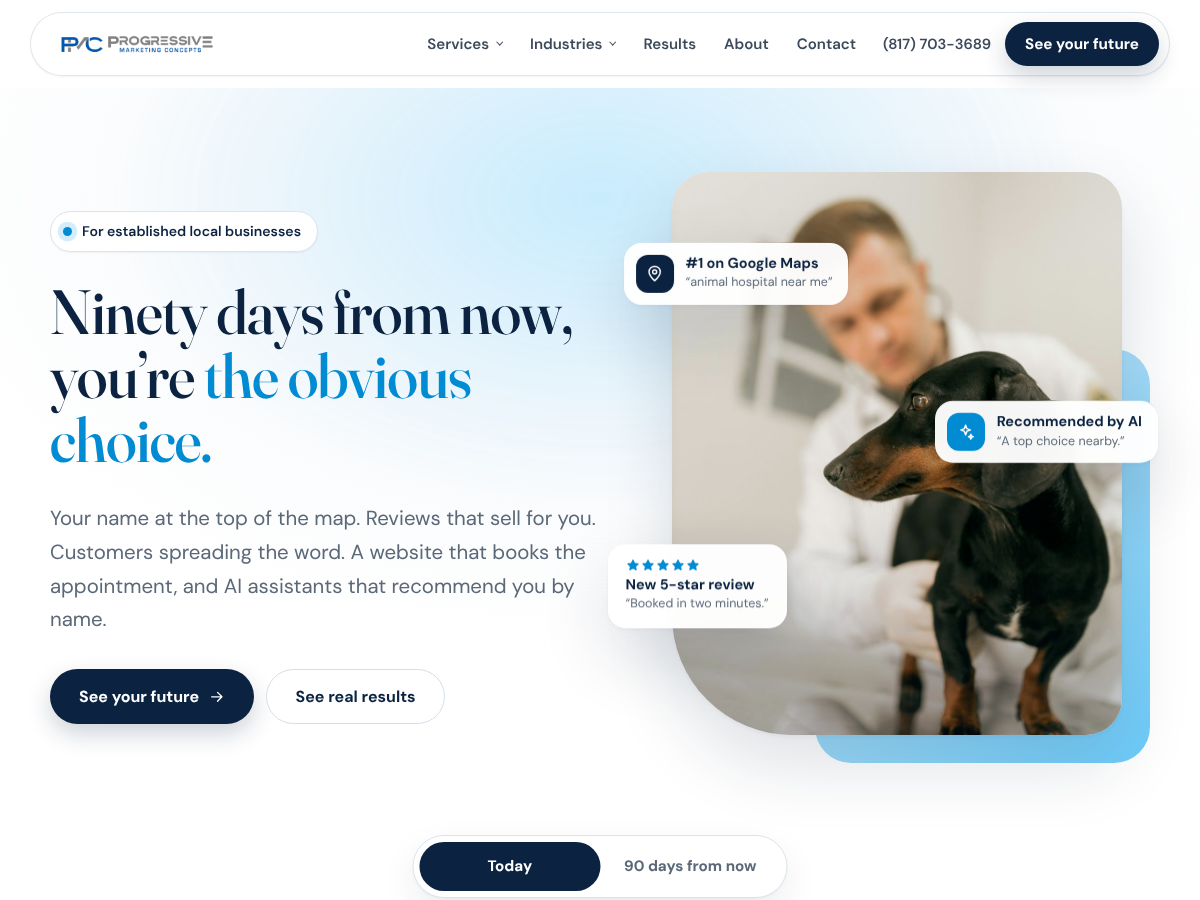
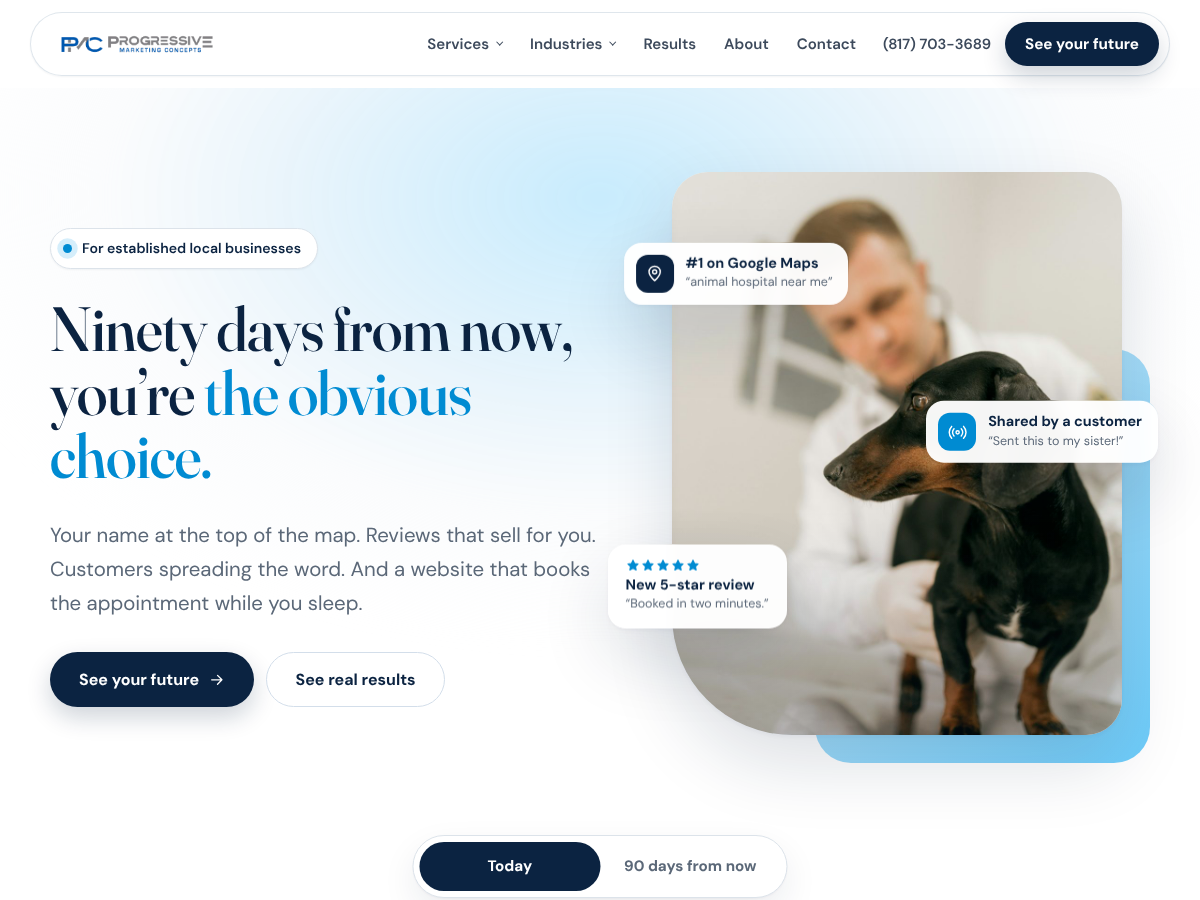
Remove AI assistant and AI search mentions from site copy
PMC doesn't offer AI visibility as a service yet. The home AI section
and demo are removed; the hero card, switch tile, and day timeline now
feature Ripple, scheduling, and Driveby instead. Website Builds copy
focuses on search engines and conversion. Behind-the-scenes structured
data, llms.txt, and crawler access are unchanged.

Claude-Session: https://claude.ai/code/session_018pQ9Jxz9pM4me8uzc4osee

diff --git a/wp-content/themes/progressive-marketing/style.css b/wp-content/themes/progressive-marketing/style.css
@@ -229,8 +229,8 @@ p { margin: 0 0 1em; }
 .chip-review { flex-direction: column; align-items: flex-start; gap: 4px; padding: 14px 18px; }
 .chip-rank { top: 12%; left: -48px; }
 .chip-review { bottom: 22%; left: -64px; animation-delay: -2.3s; }
-.chip-ai { top: 40%; right: -8px; animation-delay: -4.6s; }
-.chip-ai .chip-icon { background: var(--blue); }
+.chip-share { top: 40%; right: -8px; animation-delay: -4.6s; }
+.chip-share .chip-icon { background: var(--blue); }
 @keyframes chipFloat { 50% { transform: translateY(-8px); } }
 .hero-photo-split + .container .ft { margin-top: clamp(48px, 6vw, 80px); }
 @media (max-width: 960px) {
@@ -238,11 +238,11 @@ p { margin: 0 0 1em; }
 	.hero-photo { max-width: 460px; margin: 8px auto 0; }
 	.chip-rank { left: -8px; top: -18px; }
 	.chip-review { left: -12px; }
-	.chip-ai { right: 0; }
+	.chip-share { right: 0; }
 }
 @media (max-width: 480px) {
 	.hero-chip { transform: scale(.9); }
-	.chip-ai { display: none; }
+	.chip-share { display: none; }
 }
 
 /* Today ↔ Future switch */

diff --git a/wp-content/themes/progressive-marketing/inc/content.php b/wp-content/themes/progressive-marketing/inc/content.php
@@ -76,23 +76,23 @@ function pmc_services() {
 			'name'     => 'Website Builds',
 			'tagline'  => 'A website that closes.',
 			'icon'     => 'browser',
-			'future'   => 'Visitors land on a site that feels unmistakably yours, answers their questions, earns their trust, and turns them into booked appointments, and AI assistants can read it and recommend you.',
-			'summary'  => 'Every website we build is custom: designed from scratch around your brand, your market, and the customers you want more of. No templates, no two alike. Each one is built to convert the attention Driveby and Ripple create, and structured so search engines and AI assistants understand exactly what you do.',
+			'future'   => 'Visitors land on a site that feels unmistakably yours, answers their questions, earns their trust, and turns them into booked appointments.',
+			'summary'  => 'Every website we build is custom: designed from scratch around your brand, your market, and the customers you want more of. No templates, no two alike. Each one is built to convert the attention Driveby and Ripple create, and structured so search engines understand exactly what you do and where you do it.',
 			'parts'    => array(
 				array( 'Custom from the first sketch', 'Designed around your brand and your customers, never a recycled theme.' ),
 				array( 'Built to convert', 'Clear offers, real proof, and one obvious next step on every page.' ),
-				array( 'Built for AI search', 'Structured data, clean semantic pages, and answers written the way people ask questions, so ChatGPT, Gemini, and Google’s AI Overviews can cite you.' ),
+				array( 'Built to be found', 'Clean, fast pages with structured data, so search engines understand exactly what you do and where you do it.' ),
 				array( 'Built to last', 'Fast, secure, mobile-first, and easy for your team to update.' ),
 			),
 			'steps'    => array(
 				array( 'Discover', 'We learn your business, your market, and who you want more of.' ),
 				array( 'Design', 'A custom design shaped around your brand, reviewed with you.' ),
-				array( 'Build', 'Fast, accessible, and structured for search engines and AI.' ),
+				array( 'Build', 'Fast, accessible, mobile-first, and structured for search engines.' ),
 				array( 'Launch', 'Go live, connect it to your visibility and reputation work, and keep improving.' ),
 			),
 			'outcomes' => array(
 				'Your website becomes your best salesperson, working every hour of the day.',
-				'AI assistants describe your business accurately and send customers your way.',
+				'Customers get their questions answered and book without picking up the phone.',
 				'Every dollar you spend on visibility lands somewhere that converts.',
 			),
 			'draft'    => false,
@@ -105,7 +105,7 @@ function pmc_services() {
  */
 function pmc_futures() {
 	return array(
-		array( 'Found first', 'When someone nearby needs what you do, your name is at the top of the map, in the AI answer, and in the conversation.' ),
+		array( 'Found first', 'When someone nearby needs what you do, your name is at the top of the map and in the conversation.' ),
 		array( 'Trusted on sight', 'Your reviews, your profile, and your website all say the same thing: this is the safe choice.' ),
 		array( 'Chosen, again and again', 'The phone rings with the right customers. Appointments book themselves. Growth stops depending on luck.' ),
 	);
@@ -120,7 +120,7 @@ function pmc_future_day() {
 		array( '7:42 AM', 'call', 'New call from Google Maps', '“Saw you were top-rated. Do you have anything today?”' ),
 		array( '9:15 AM', 'star', 'New 5-star review', '“Found them on the map, booked in two minutes.”' ),
 		array( '11:03 AM', 'calendar', 'Appointment booked online', 'From your website, after reading your FAQ.' ),
-		array( '1:30 PM', 'ai', 'Recommended by an AI assistant', '“Top choice nearby, known for fast service and great reviews.”' ),
+		array( '1:30 PM', 'pin', 'Top 3 across town', 'Your weekly map report: top three from one side of town to the other.' ),
 		array( '3:48 PM', 'shield', 'Fake review reported', 'A competitor’s 1-star review flagged for removal within 30 minutes.' ),
 		array( '5:20 PM', 'ripple', 'Your campaign is spreading', 'Customers shared your offer, and their friends are sharing it too.' ),
 	);
@@ -307,12 +307,12 @@ function pmc_growth360_editions() {
 }
 
 /**
- * FAQs, written as the questions people (and AI assistants) actually ask.
+ * FAQs, written as the questions people actually ask.
  * Output as FAQPage structured data wherever they appear.
  */
 function pmc_faqs() {
 	return array(
-		array( 'What does Progressive Marketing Concepts do?', 'We help established local businesses become the obvious choice in their market. Our three services are PMC Driveby™ & Review Guard™ (top-three Google Maps visibility, with fast removal reporting for fake or abusive reviews included), Ripple (sharing campaigns that turn your existing media into earned media), and custom websites built for AI search.' ),
+		array( 'What does Progressive Marketing Concepts do?', 'We help established local businesses become the obvious choice in their market. Our three services are PMC Driveby™ & Review Guard™ (top-three Google Maps visibility, with fast removal reporting for fake or abusive reviews included), Ripple (sharing campaigns that turn your existing media into earned media), and custom websites built to turn visitors into customers.' ),
 		array( 'What is PMC Driveby?', 'PMC Driveby is a location-based ranking system for Google Business Profiles. It moves your business into the top three on Google Maps for the keywords your customers search, across your whole service area, and keeps monitoring it there.' ),
 		array( 'What is PMC Review Guard?', 'Review Guard is included with every PMC Driveby plan. It monitors your Google reviews around the clock. New 1- and 2-star reviews that appear fake, spammy, abusive, off-topic, or from competitors or non-customers are typically reported within 30 minutes, then escalated and tracked. No login to your Google account is required.' ),
 		array( 'Can every negative review be removed?', 'No. Google makes the final decision, and genuine reviews that follow its policies stay up. Review Guard makes sure the ones that break the rules are reported fast and followed through.' ),
@@ -320,7 +320,7 @@ function pmc_faqs() {
 		array( 'How fast will I see results?', 'Our Driveby optimization runs 30 to 45 days, and many clients see movement sooner. One wellness center moved from position 13 to 5 for a key service in seven days.' ),
 		array( 'How do I know it’s working?', 'Every keyword gets a before-and-after geo-grid report showing your average ranking position (ARP) and share of local voice (SOLV, the share of the map where you rank in the top three), plus monthly executive reporting.' ),
 		array( 'Is there a way to try it first?', 'Yes. You can start a free 7-day PMC Driveby trial, or a complimentary Growth360™ Executive Evaluation for veterinary clinics and dealerships. There’s no sales presentation.' ),
-		array( 'Do you build websites that work with AI search?', 'Yes. Our websites use structured data, clean semantic pages, and plain-language answers so search engines and AI assistants like ChatGPT, Gemini, and Google AI Overviews can understand and recommend your business.' ),
+		array( 'What’s included in a website build?', 'Every site is designed from scratch around your brand and the customers you want more of. It loads fast, works beautifully on phones, turns visitors into calls and bookings, and gives search engines clear, structured information about your business.' ),
 		array( 'Which businesses do you work with?', 'Established local businesses, especially medical clinics, auto dealerships, hotels, and veterinary clinics. You need a public Google Business Profile and a commitment to your local market.' ),
 	);
 }

diff --git a/wp-content/themes/progressive-marketing/inc/seo.php b/wp-content/themes/progressive-marketing/inc/seo.php
@@ -55,7 +55,7 @@ function pmc_page_context() {
  */
 function pmc_meta_description() {
 	if ( is_front_page() ) {
-		return 'Progressive Marketing Concepts helps established local businesses become the obvious choice: top of Google Maps, protected reviews, momentum that spreads, and websites built for AI search.';
+		return 'Progressive Marketing Concepts helps established local businesses become the obvious choice: top of Google Maps, protected reviews, momentum that spreads, and custom websites that convert.';
 	}
 	list( $type, $key ) = pmc_page_context();
 	if ( 'service' === $type ) {
@@ -148,7 +148,7 @@ function pmc_structured_data() {
 			'description' => 'Progressive Marketing Concepts helps established local businesses become the obvious choice in their market with PMC Driveby & Review Guard, Ripple, and high-end website builds.',
 			'areaServed'  => 'United States',
 			'address'     => array( '@type' => 'PostalAddress', 'addressLocality' => 'Dallas', 'addressRegion' => 'TX', 'addressCountry' => 'US' ),
-			'knowsAbout'  => array( 'Google Business Profile optimization', 'Local SEO', 'Google Maps ranking', 'Online reputation management', 'AI search optimization', 'Website design' ),
+			'knowsAbout'  => array( 'Google Business Profile optimization', 'Local SEO', 'Google Maps ranking', 'Online reputation management', 'Referral and sharing campaigns', 'Website design' ),
 			'founder'     => array( '@type' => 'Person', 'name' => pmc_opt( 'rep_name' ) ),
 			'hasOfferCatalog' => array(
 				'@type'           => 'OfferCatalog',
@@ -234,7 +234,7 @@ function pmc_llms_txt( $wp ) {
 	$lines   = array();
 	$lines[] = '# Progressive Marketing Concepts';
 	$lines[] = '';
-	$lines[] = '> Progressive Marketing Concepts (PMC) helps established local businesses become the obvious choice in their market: found first on Google Maps and in AI answers, trusted on sight, and chosen again and again. Based in Dallas–Fort Worth, Texas; serves businesses across the United States.';
+	$lines[] = '> Progressive Marketing Concepts (PMC) helps established local businesses become the obvious choice in their market: found first on Google Maps, trusted on sight, and chosen again and again. Based in Dallas–Fort Worth, Texas; serves businesses across the United States.';
 	$lines[] = '';
 	$lines[] = 'Contact: ' . pmc_opt( 'phone' ) . ' · ' . pmc_opt( 'email' );
 	$lines[] = '';

diff --git a/wp-content/themes/progressive-marketing/front-page.php b/wp-content/themes/progressive-marketing/front-page.php
@@ -20,7 +20,7 @@ foreach ( pmc_industries() as $ind ) {
 		<div class="hero-copy">
 			<p class="pill" data-reveal><span class="pill-dot"></span> For established local businesses</p>
 			<h1 data-reveal>Ninety days from now, you’re <em>the obvious choice.</em></h1>
-			<p class="lead" data-reveal>Your name at the top of the map. Reviews that sell for you. Customers spreading the word. A website that books the appointment, and AI assistants that recommend you by name.</p>
+			<p class="lead" data-reveal>Your name at the top of the map. Reviews that sell for you. Customers spreading the word. And a website that books the appointment while you sleep.</p>
 			<div class="hero-actions" data-reveal>
 				<a class="btn btn-primary btn-lg" href="<?php echo esc_url( pmc_trial_url() ); ?>">See your future <?php echo pmc_icon( 'arrow' ); // phpcs:ignore ?></a>
 				<a class="btn btn-ghost btn-lg" href="#proof">See real results</a>
@@ -38,9 +38,9 @@ foreach ( pmc_industries() as $ind ) {
 				<span class="chip-stars"><?php echo str_repeat( pmc_icon( 'star' ), 5 ); // phpcs:ignore ?></span>
 				<span><strong>New 5-star review</strong><small>“Booked in two minutes.”</small></span>
 			</div>
-			<div class="hero-chip chip-ai" aria-hidden="true">
-				<span class="chip-icon"><?php echo pmc_icon( 'ai' ); // phpcs:ignore ?></span>
-				<span><strong>Recommended by AI</strong><small>“A top choice nearby.”</small></span>
+			<div class="hero-chip chip-share" aria-hidden="true">
+				<span class="chip-icon"><?php echo pmc_icon( 'ripple' ); // phpcs:ignore ?></span>
+				<span><strong>Shared by a customer</strong><small>“Sent this to my sister!”</small></span>
 			</div>
 		</figure>
 	</div>
@@ -106,12 +106,6 @@ foreach ( pmc_industries() as $ind ) {
 	</div>
 </section>
 
-<section class="section section-tint">
-	<div class="container split split-center">
-		<?php pmc_heading( 'The next front door', 'Tomorrow’s customers ask AI. *It should name you.*', 'More people now ask ChatGPT, Gemini, or Google’s AI Overview who to call. Those answers come from your map listing, your reviews, and your website. In your future, all three point to you.' ); ?>
-		<?php get_template_part( 'template-parts/ai-answer' ); ?>
-	</div>
-</section>
 
 <section class="section">
 	<div class="container">

diff --git a/wp-content/themes/progressive-marketing/page-about-us.php b/wp-content/themes/progressive-marketing/page-about-us.php
@@ -20,7 +20,7 @@ get_header();
 		<?php pmc_heading( 'What we believe', 'Your future shouldn’t *depend on luck.*' ); ?>
 		<div class="prose" data-reveal>
 			<p>Most local businesses are better than their online presence suggests. Customers can’t see the care, the expertise, or the years of reputation. They see a map, a star rating, and a website, and they decide in seconds.</p>
-			<p>We close that gap. Our work raises your presence across Google Maps, local search, and AI platforms so the right customers find you first, and our reporting shows you exactly what changed and why.</p>
+			<p>We close that gap. Our work raises your presence across Google Maps and local search so the right customers find you first, and our reporting shows you exactly what changed and why.</p>
 		</div>
 	</div>
 </section>

diff --git a/wp-content/themes/progressive-marketing/template-parts/future-toggle.php b/wp-content/themes/progressive-marketing/template-parts/future-toggle.php
@@ -13,7 +13,7 @@ $tiles = array(
 	array( 'shield', 'Reviews', 'One fake review from a bad month', 'Fake reviews reported within 30 minutes', 40, 90, 'mint' ),
 	array( 'ripple', 'Word of mouth', 'Whoever happens to remember you', 'Customers sharing your offer with friends', 22, 86, 'peach' ),
 	array( 'browser', 'Your website', 'An online brochure', 'Booking appointments while you sleep', 30, 88, 'lilac' ),
-	array( 'ai', 'AI assistants', 'Don’t mention you', 'Recommend you by name', 8, 82, 'sky' ),
+	array( 'calendar', 'Your schedule', 'Gaps you hope will fill', 'Booked with the customers you want', 25, 90, 'sky' ),
 );
 ?>
 <div class="ft" data-future-toggle>

diff --git a/wp-content/themes/progressive-marketing/template-parts/service.php b/wp-content/themes/progressive-marketing/template-parts/service.php
@@ -56,15 +56,6 @@ $svc  = $args['svc'];
 	</div>
 </section>
 
-<?php if ( 'website-builds' === $slug ) : ?>
-<section class="section section-paper">
-	<div class="container split">
-		<?php pmc_heading( 'Built for AI search', 'When someone asks an AI, *it names you.*', 'People now ask ChatGPT, Gemini, and Google’s AI Overviews who to call. Those answers come from your listing, your reviews, and a website machines can read.' ); ?>
-		<?php get_template_part( 'template-parts/ai-answer' ); ?>
-	</div>
-</section>
-<?php endif; ?>
-
 <section class="section section-paper">
 	<div class="container split">
 		<div data-reveal>

diff --git a/README.md b/README.md
@@ -21,7 +21,7 @@ Activating the theme creates every page, the menus, a static front page, and `/%
 
 | URL | What it is |
 | --- | --- |
-| `/` | Home: the future, proof, AI answer demo, industries, services, FAQ |
+| `/` | Home: the future, proof, industries, services, FAQ |
 | `/services/` | Services hub |
 | `/services/driveby-review-guard/`, `/services/ripple/`, `/services/website-builds/` | The three services |
 | `/industries/` + `/industries/{medical-clinics, auto-dealerships, hotels, veterinary-clinics}/` | Industry futures |
